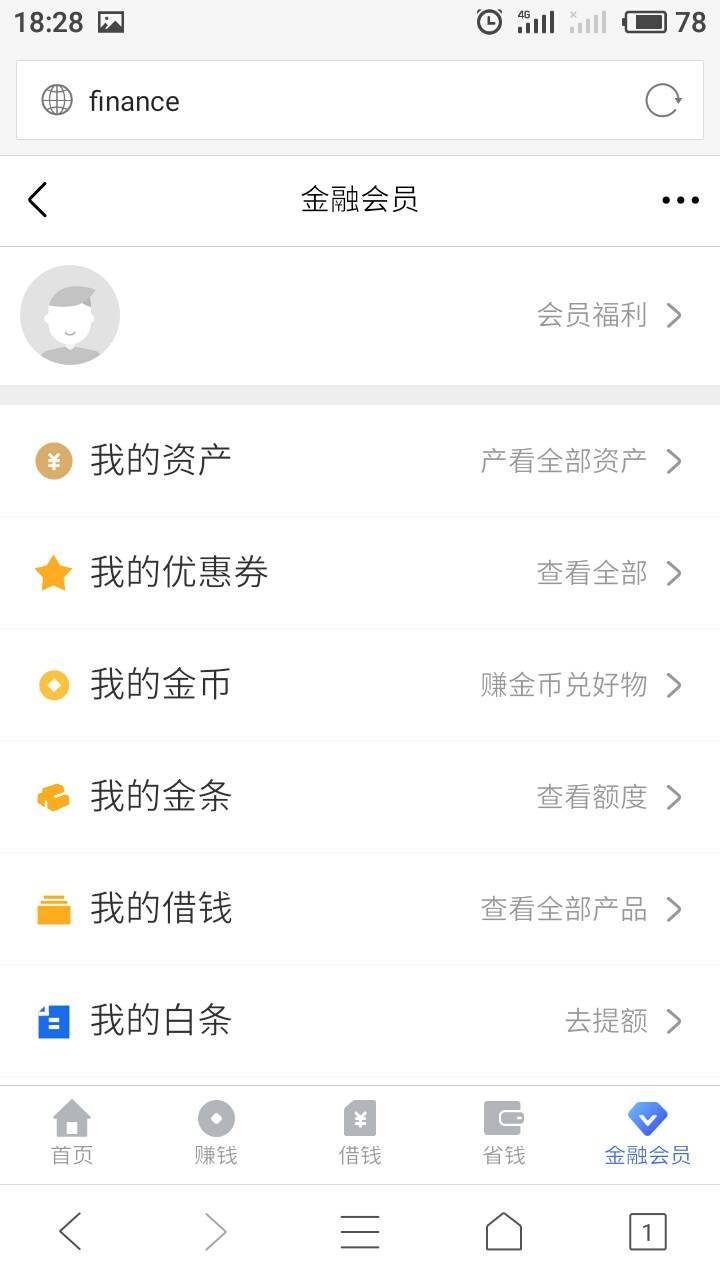
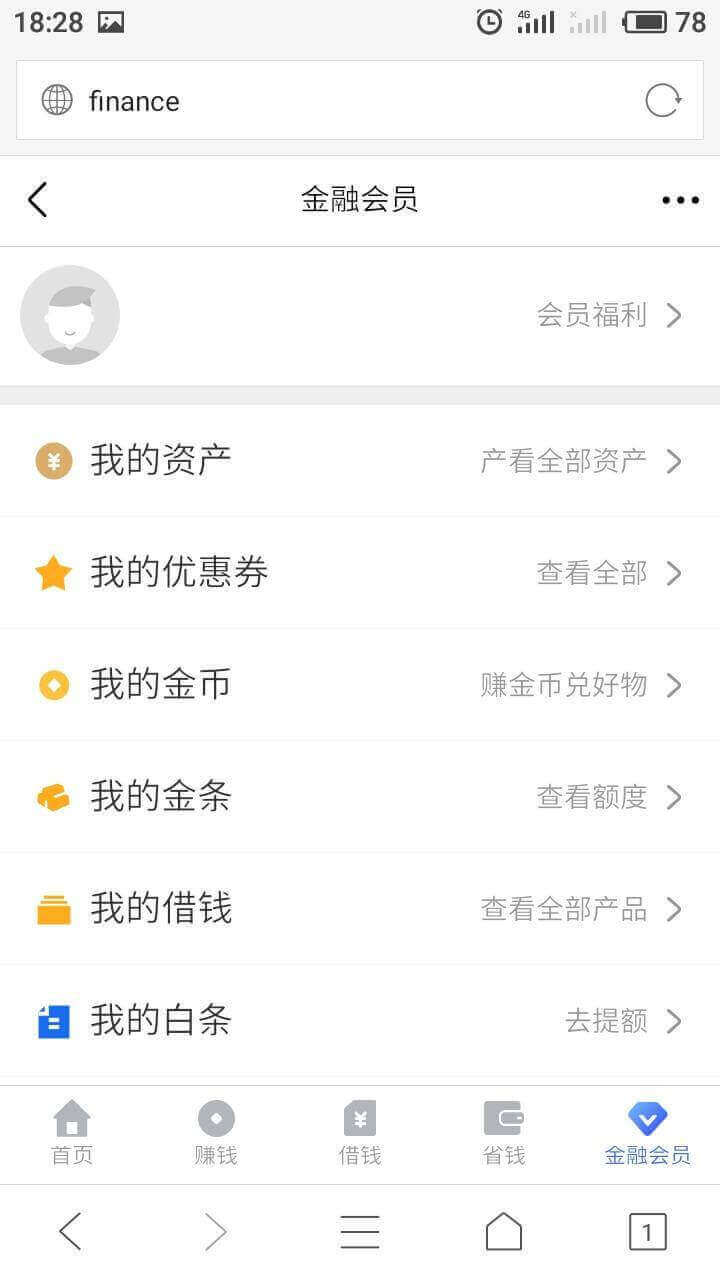
压缩图片

diff --git a/assets/css/main.css b/assets/css/main.css
@@ -802,18 +802,18 @@ footer p > a:last-child:after {
   text-overflow: ellipsis;
   line-height: .6rem;
 }
-.diary-item>.btn {
+.diary-item .btn {
   display: block;
   margin-top: .2rem;
-  width: 1.2rem;
-  height: .46rem;
-  line-height: .46rem;
+  width: 1.4rem;
+  height: .44rem;
+  line-height: .44rem;
   background-color: #4ec2ca;;
   color: #fff;
   text-align: center;
   cursor: pointer;
 }
-.diary-item>.btn:hover {
+.diary-item .btn:hover {
   background-color: #38a4ab;
 }
 .diary-more {
@@ -829,15 +829,20 @@ footer p > a:last-child:after {
 .diary-detail-item .content {
   border-bottom: .04rem dashed #9ce8ec;
   background-color: #f5f2f0;
-  padding: 0 .2rem .4rem;
+  padding: .4rem .2rem;
 }
 .diary-detail-item .content code{
   display: block;
   line-height: 1.8;
   background-color: #e6e6e6;
   margin: .16rem 0;
+  overflow-x: auto;
 }
-.diary-detail-item .content .full-img{
+.diary-detail-item .content code::-webkit-scrollbar-track,
+.diary-detail-item .content code::-webkit-scrollbar-thumb {
+  background-color: transparent;
+}
+.diary-item .content .full-img{
   display: block;
   width: 100%;
   height: 100%;
@@ -1219,6 +1224,10 @@ footer p > a:last-child:after {
   .diary-item>.sign>a {
     font-size: .3rem;
     margin-right: .1rem;
+  }
+  .diary-detail-item .content code::-webkit-scrollbar-track,
+  .diary-detail-item .content code::-webkit-scrollbar-thumb {
+    box-shadow: none;
   }
 }
 

diff --git a/index.html b/index.html
@@ -145,8 +145,8 @@
       </div>
       <div class="col-3 col-md-6">
         <div class="img-item showAll">
-          <img src="./assets/img/img-admin/1.jpg" alt="">
-          <img src="./assets/img/img-admin/2.jpg" alt="">
+          <img src="./assets/img/img-admin/1.png" alt="">
+          <img src="./assets/img/img-admin/2.png" alt="">
         </div>
       </div>
     </div>
@@ -159,7 +159,7 @@
   <section class="contact">
     <div class="container clearFix">
       <div class="img">
-          <img src="./assets/img/user.jpg" alt="邬飞">
+          <img src="./assets/img/user.png" alt="邬飞">
       </div>
       <div class="contact-item col-3 col-ms-6">
           <a href="http://wpa.qq.com/msgrd?v=3&uin=1048648168&site=qq&menu=yes" target="_blank"><span class="iconfont icon-web-icon-"></span>1048648148</a>

diff --git a/blog.html b/blog.html
@@ -46,7 +46,7 @@
 <section class="contact">
   <div class="container clearFix">
     <div class="img">
-      <img src="./assets/img/user.jpg" alt="邬飞">
+      <img src="./assets/img/user.png" alt="邬飞">
     </div>
     <div class="contact-item col-3 col-ms-6">
       <a href="http://wpa.qq.com/msgrd?v=3&uin=1048648168&site=qq&menu=yes" target="_blank"><span class="iconfont icon-web-icon-"></span>1048648148</a>
